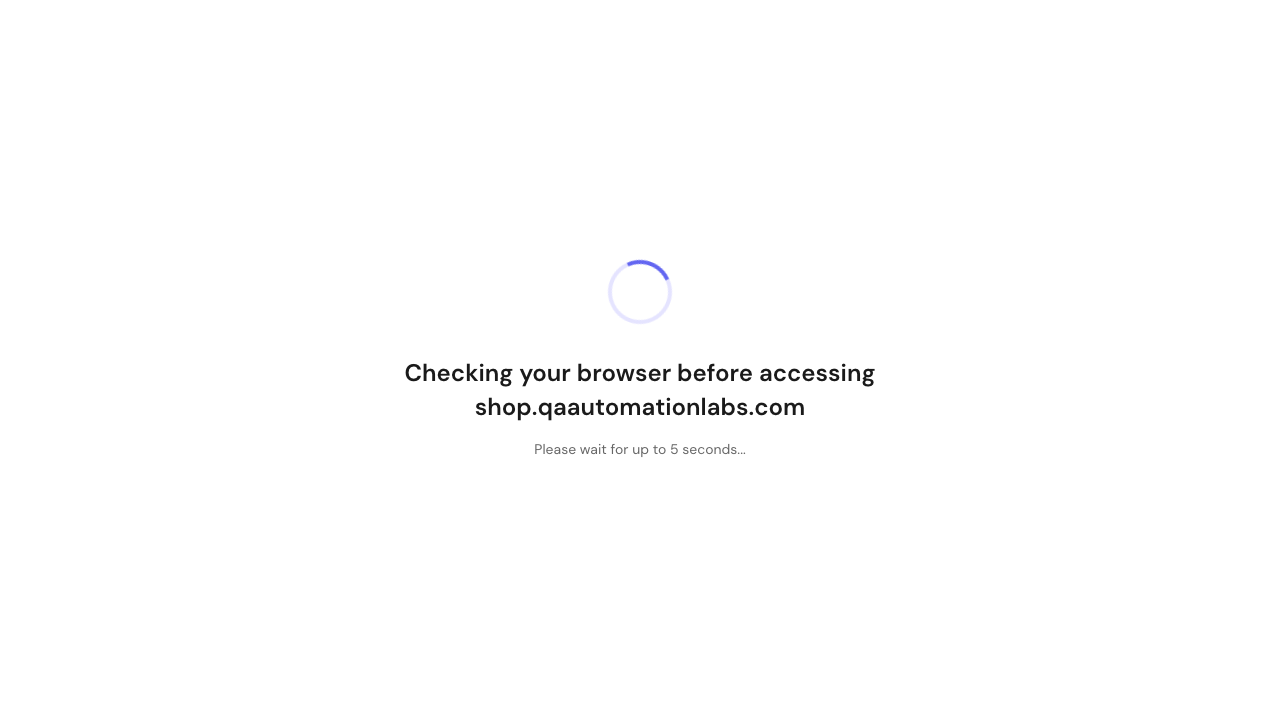
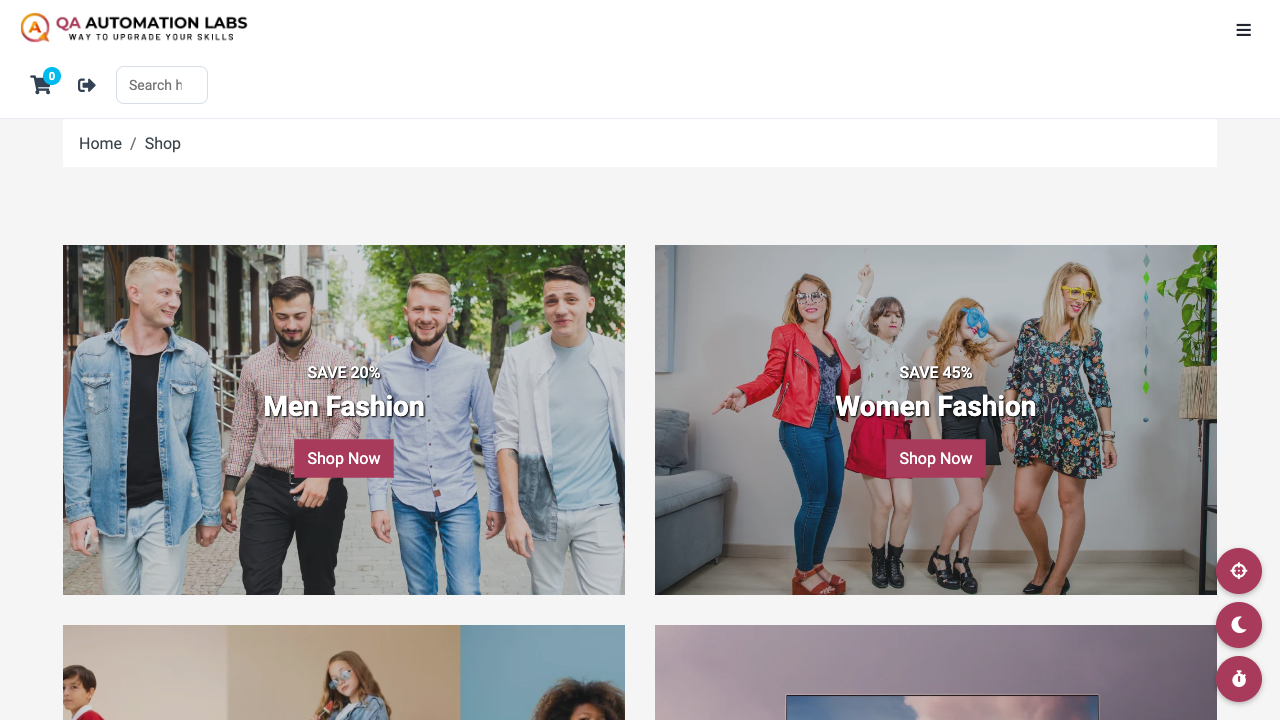
added new assertion

diff --git a/pages/login_page.py b/pages/login_page.py
@@ -18,17 +18,18 @@ class LoginPage:
 
     def check_remember_me(self):
         with allure.step("Check 'Remember Me' checkbox"):
-            self.page.get_by_test_id(LoginLocators.REMEMBER_ME_CHECKBOX).check()
+            self.page.get_by_test_id(LoginLocators.CHECKBOX_REMEMBER_ME).check()
 
     def click_login_button(self):
         with allure.step("Click on the login button"):
             self.page.get_by_test_id(LoginLocators.LOGIN_BUTTON).click()
+            self.page.wait_for_url("**/shop.php", timeout=15000)
 
     def login(self, email, password):
         with allure.step(f"Login with email: {email} and password: {password}"):
             self.enter_email(email)
             self.enter_password(password)
-            self.check_remember_me
+            self.check_remember_me()
             self.click_login_button()
 
     def get_invalid_email_error_message(self):

diff --git a/pages/dashboard_page.py b/pages/dashboard_page.py
@@ -1,3 +1,4 @@
+import re
 import allure
 from playwright.sync_api import Page, expect
 
@@ -9,4 +10,4 @@ class DashboardPage:
 
     def should_be_open(self):
         with allure.step("Validate dashboard page is open"):
-            expect(self.page).to_have_url(DashboardLocators.PAGE_URL)
+            expect(self.page).to_have_url(re.compile(r"https://shop\.qaautomationlabs\.com/shop\.php$"), timeout=15000)
